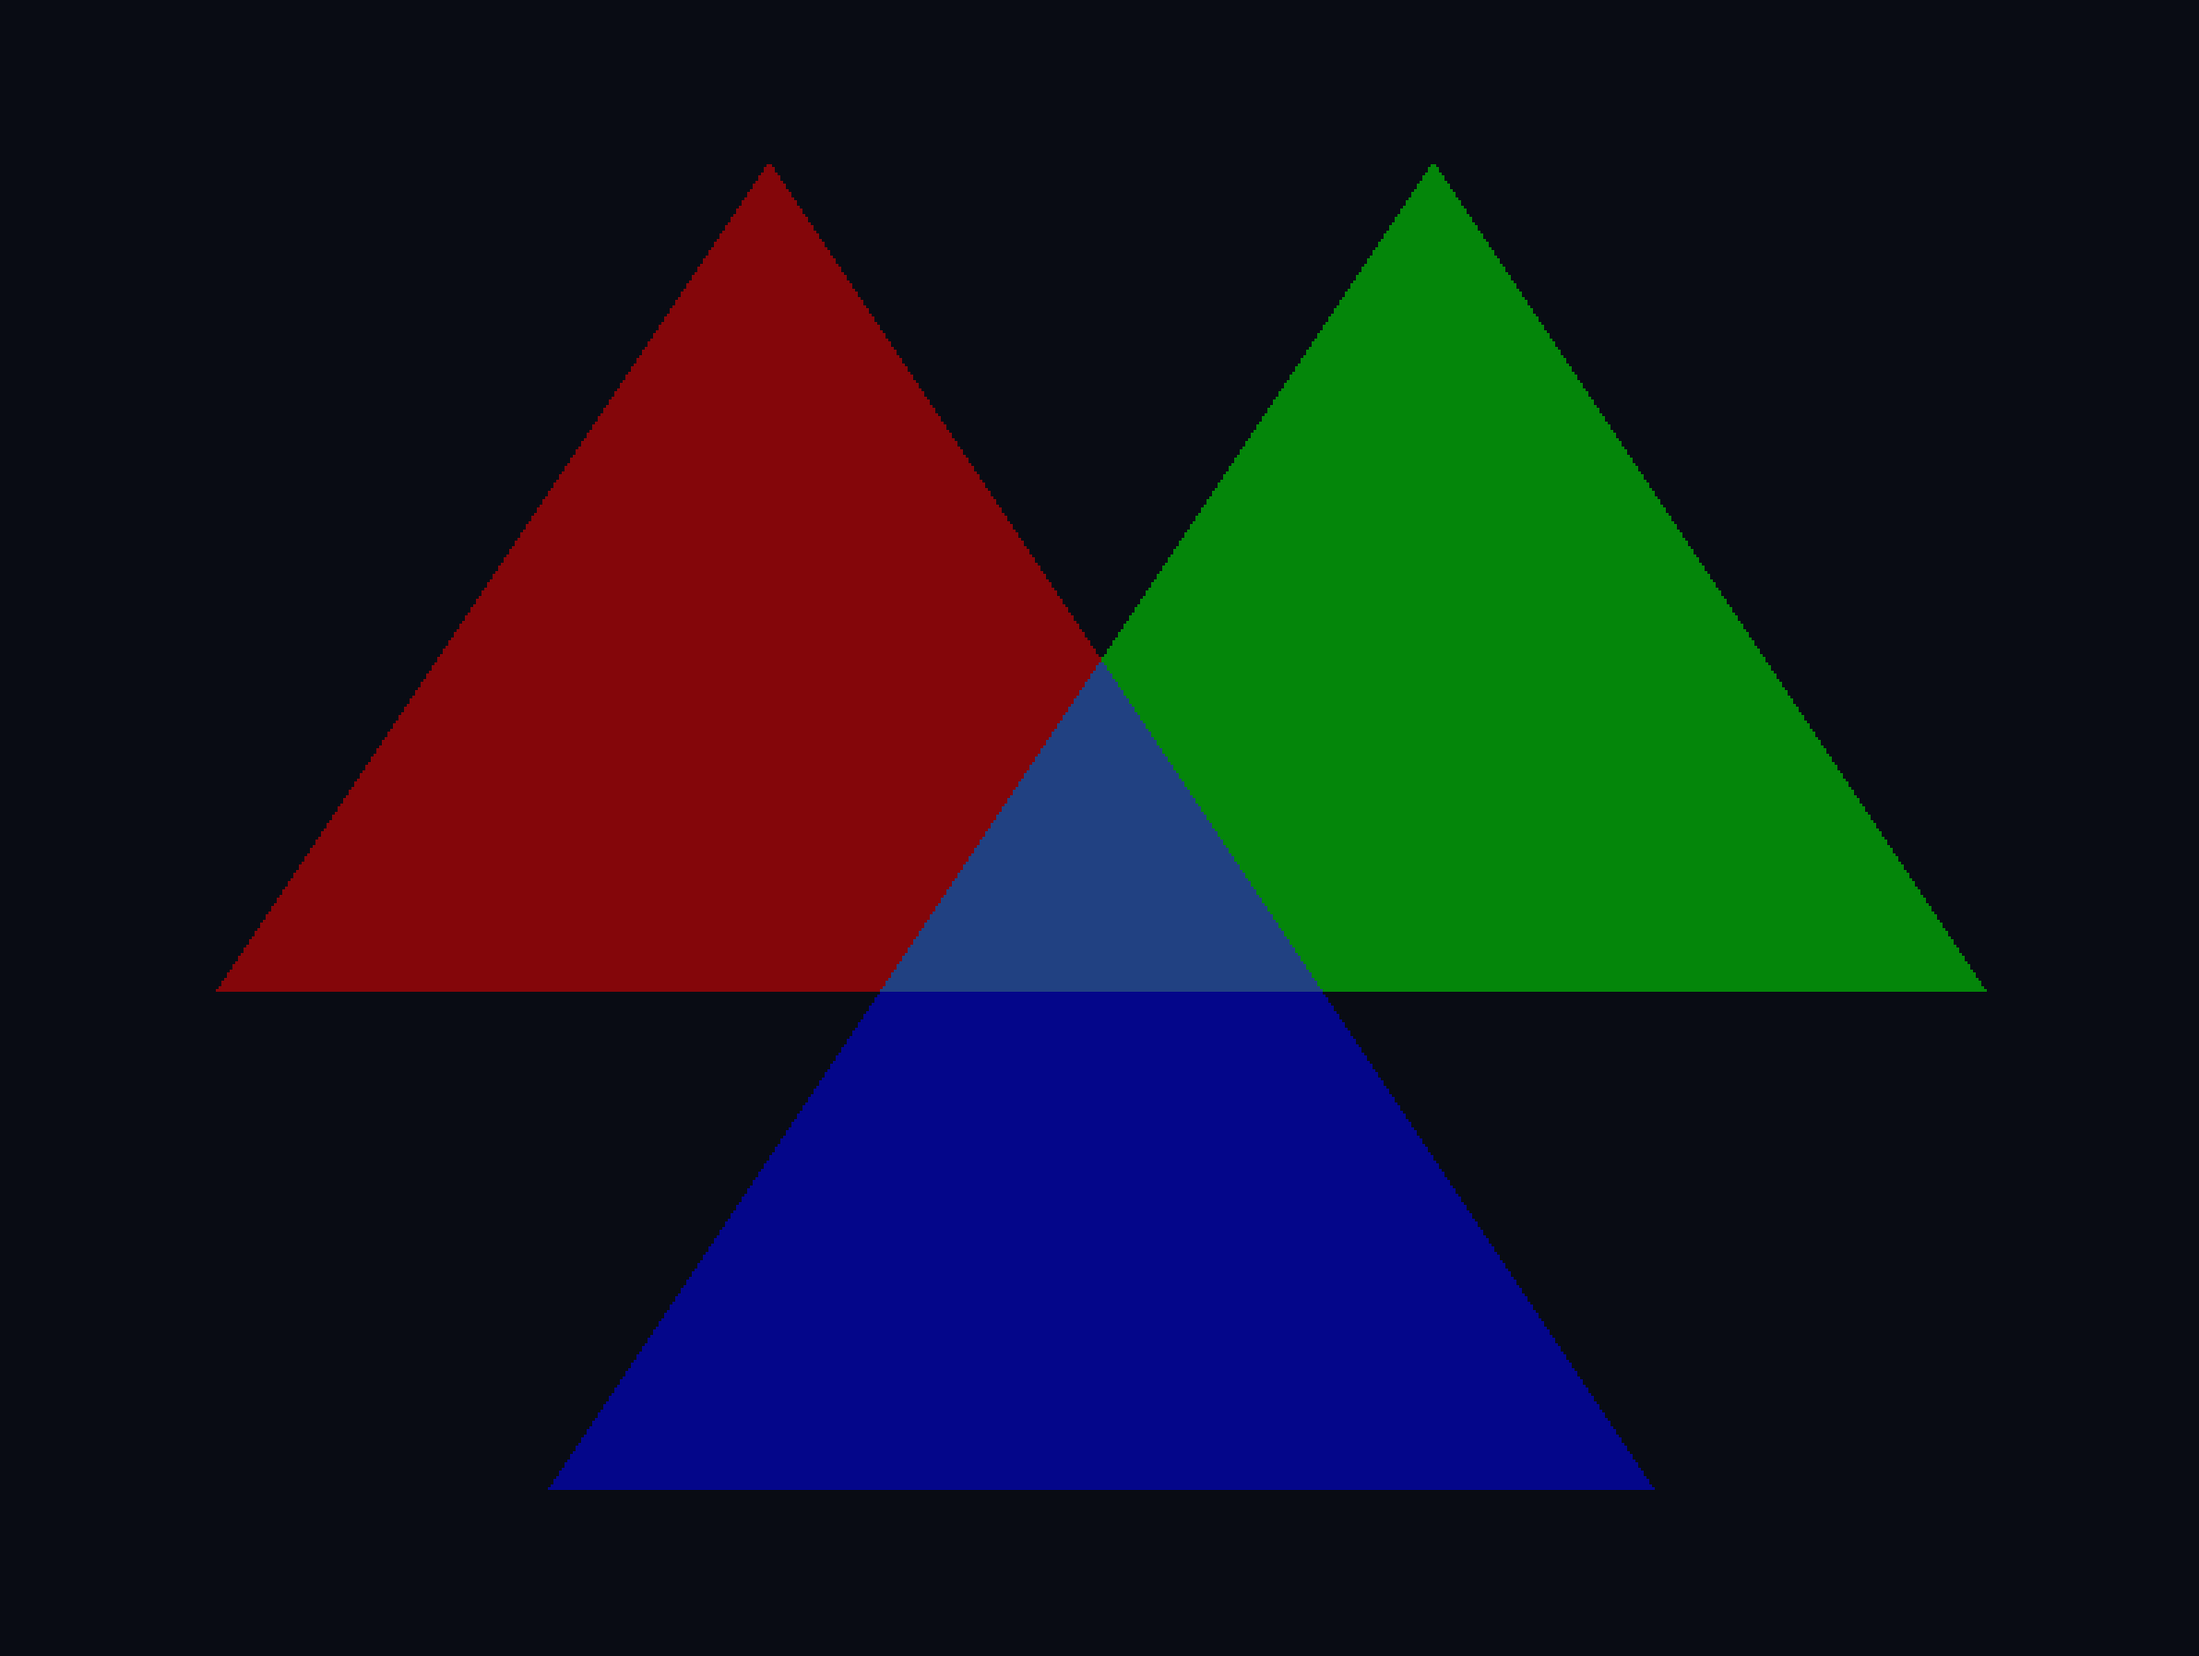
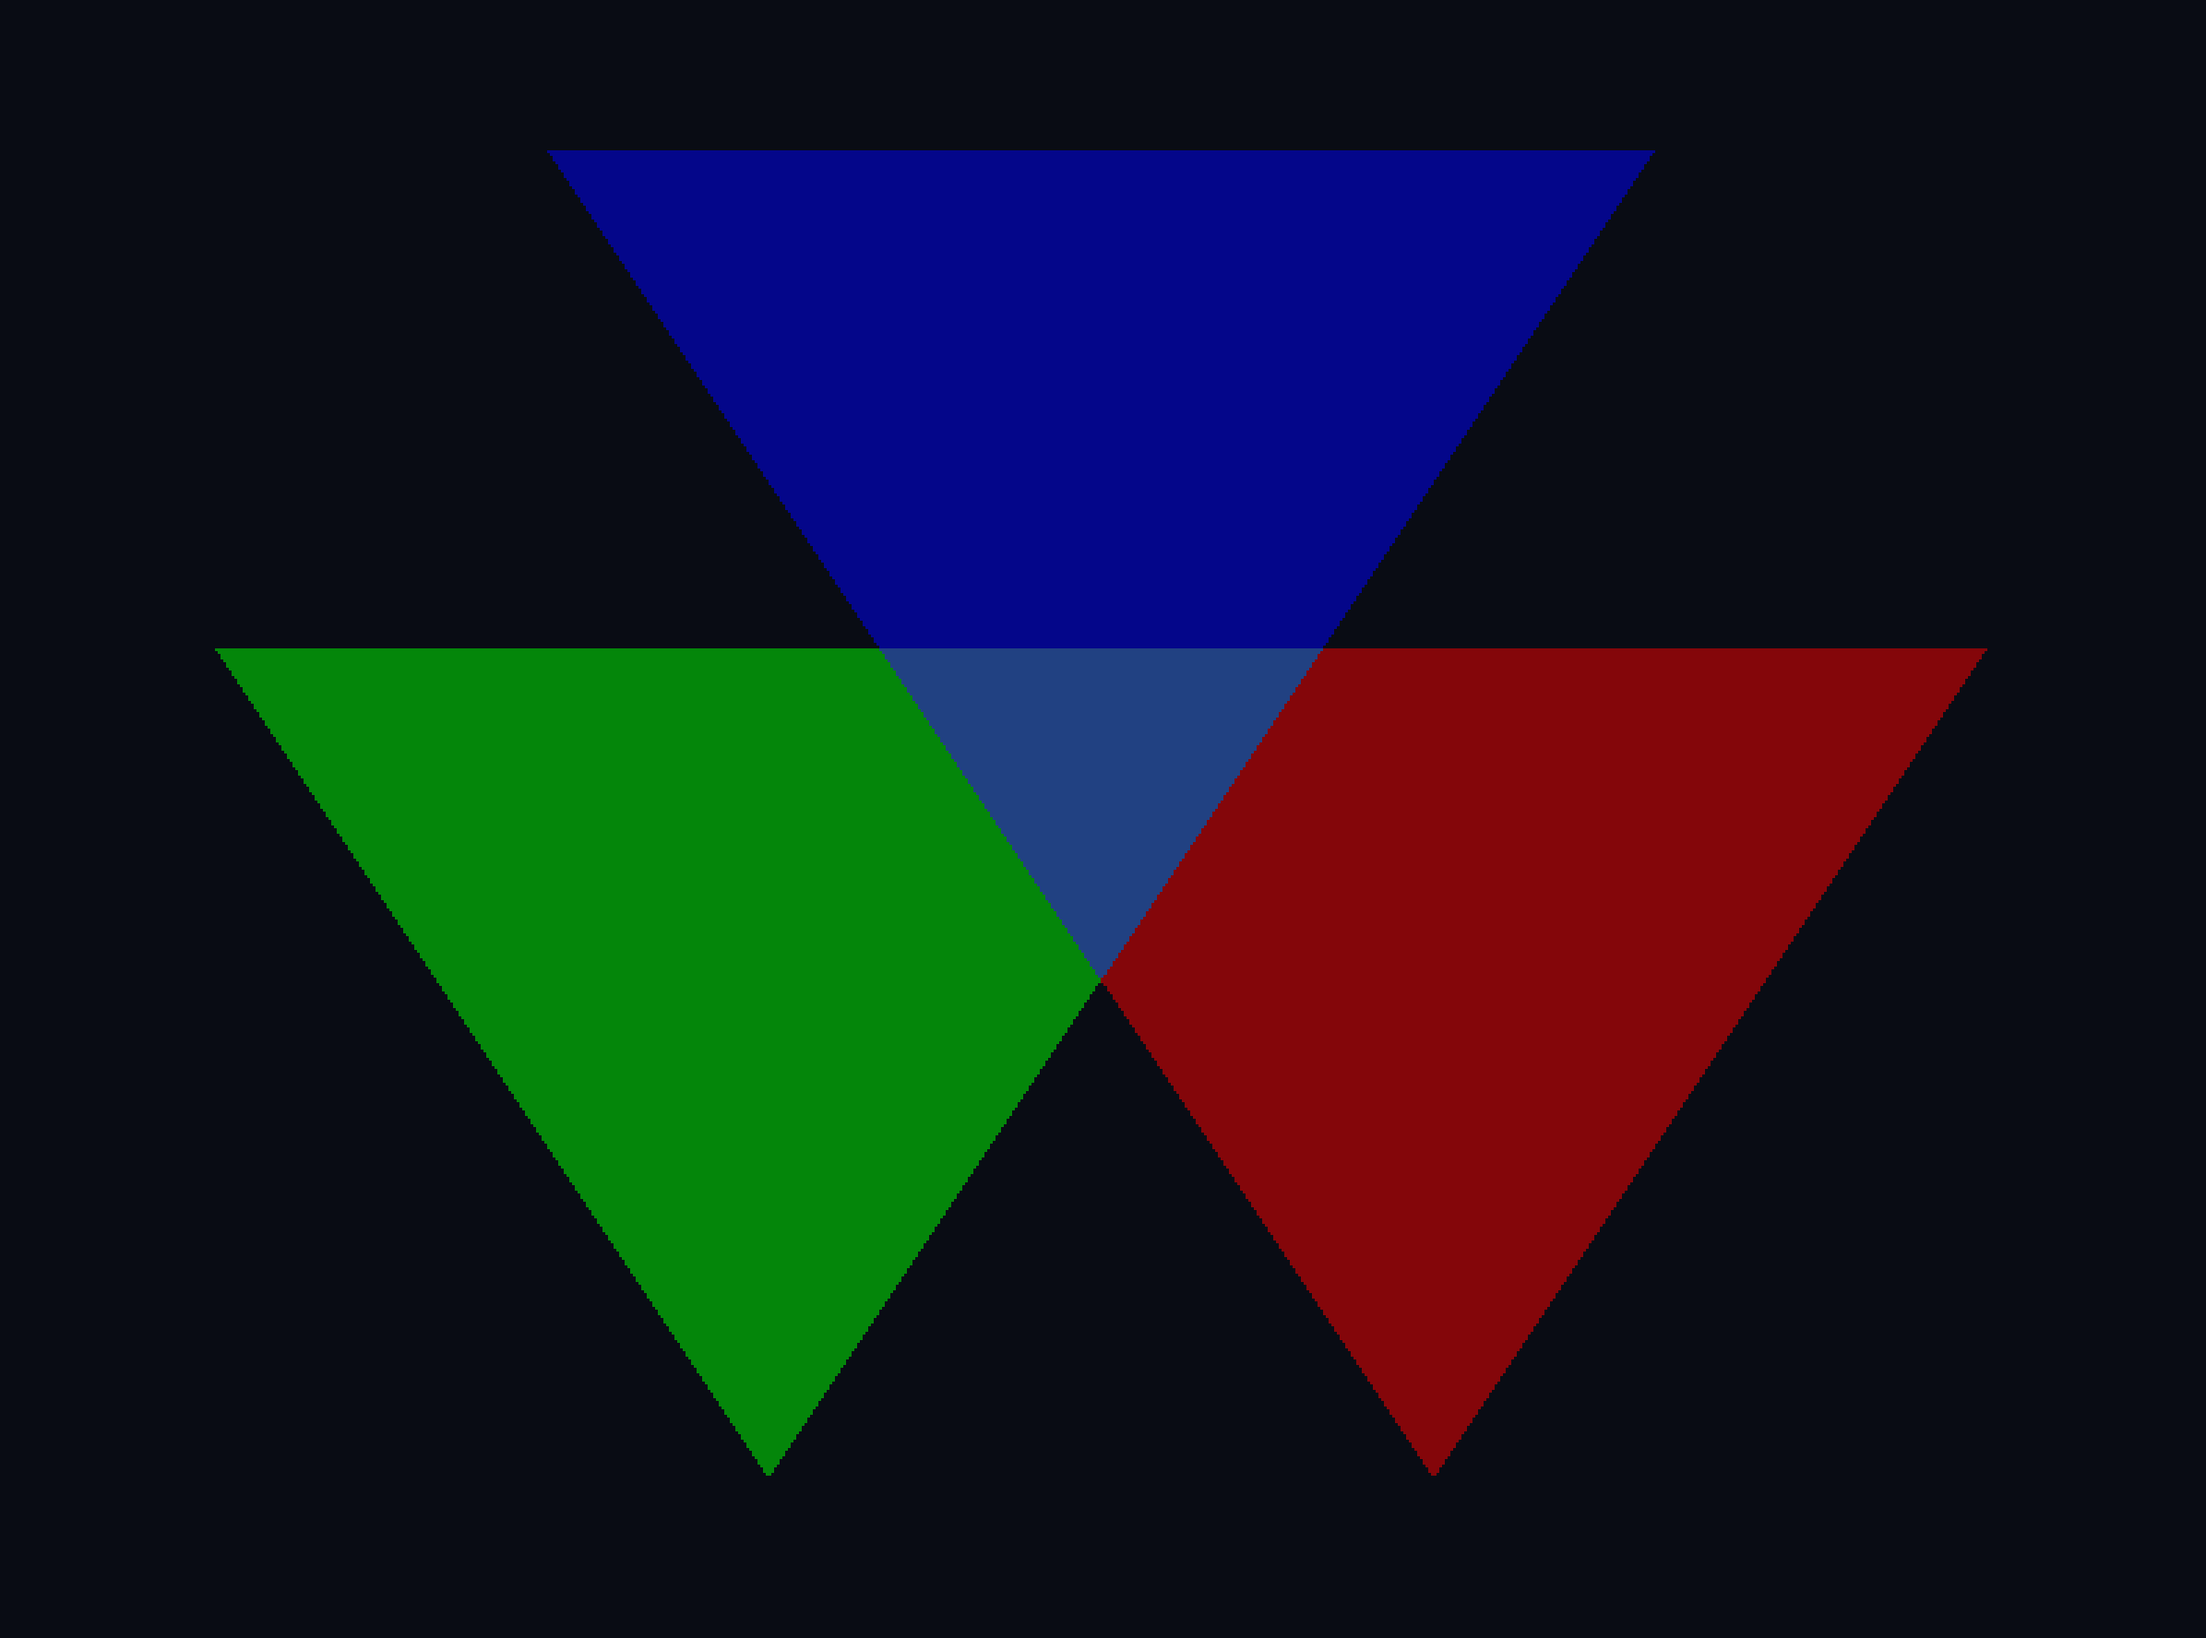
Pass uniform for elapsed

diff --git a/gloom-rs/src/main.rs b/gloom-rs/src/main.rs
@@ -217,6 +217,7 @@ fn main() {
         let vao_id = unsafe { create_vao(&vertices, &indices, &colors) };
 
 
+
         // == // Set up your shaders here
 
         // Basic usage of shader helper:
@@ -296,7 +297,9 @@ fn main() {
                 // Clear the color and depth buffers
                 gl::ClearColor(0.035, 0.046, 0.078, 1.0); // night sky
                 gl::Clear(gl::COLOR_BUFFER_BIT | gl::DEPTH_BUFFER_BIT);
-
+                
+                let loc = simple_shader.get_uniform_location("elapsed");
+                gl::Uniform1f(loc, elapsed.sin());
                 gl::DrawElements(gl::TRIANGLES, indices.len() as i32, gl::UNSIGNED_INT, ptr::null());
             }
 

diff --git a/gloom-rs/report/exercise2.md b/gloom-rs/report/exercise2.md
@@ -40,3 +40,6 @@ OpenGL does a simple interpolation between the vertex colors, and assigns a colo
 ![](./images/transparent_triangles.png)
 
 Here we have drawn three partially overlapping triangles drawn in the order "red - green - blue" with red having the highest z-index (furthest back), followed by green and finally blue. All triangles are rendered with alpha = 0.4
+
+TODO TASK 2B)
+
